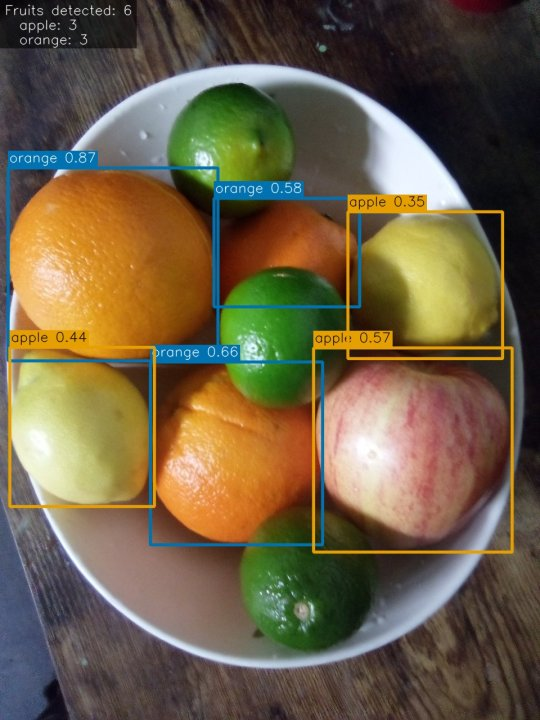
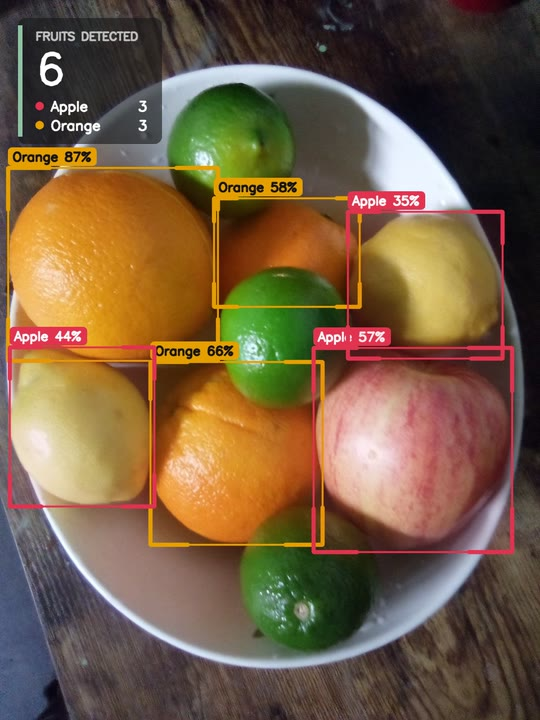
docs: document the videos_to_processing workflow and refresh the demo media
The GIF and image are regenerated from real runs with the new overlay.

Changed region(s): [[0.0, 0.0, 0.9778, 0.7944]]

diff --git a/README.md b/README.md
@@ -25,9 +25,10 @@ fruit, not the number of detections.
 
 ## Features
 
-- **One command** for images, image folders, video files and webcams
+- **Drop-in workflow**: put videos in a folder, run one command, get finished demos
 - **Unique counting**: each fruit keeps one track id for as long as it stays in view
-- **Ready-to-use outputs**: annotated media, `summary.json` and per-frame `frames.csv`
+- **Share-ready video**: steady boxes, a live count, H.264 at the source resolution with audio
+- **Data too**: `summary.json` and per-frame `frames.csv` alongside every video
 - **Built-in evaluation**: counting error against your ground-truth CSV
 - **Bring your own model**: any Ultralytics detector through `--weights`
 
@@ -37,15 +38,23 @@ fruit, not the number of detections.
 git clone https://github.com/felipebridge/fruit-detection-counting.git
 cd fruit-detection-counting
 pip install -e .
-
-fruit-counter -i data/samples/fruit_bowl.jpg
 ```
 
-The YOLO11n weights (~5 MB) download automatically on first run.
+Put your videos in `videos_to_processing/` (created on first run), then run:
+
+```bash
+fruit-counter
+```
+
+Each video is processed on its own and saved to `outputs/<video>_<timestamp>/`. Your
+originals are never modified. The YOLO11n weights (~5 MB) download on first run.
+Install [ffmpeg](https://ffmpeg.org/download.html) for H.264 output with audio, which
+social platforms require.
 
 ## Usage
 
 ```bash
+fruit-counter -i data/samples/fruit_bowl.jpg      # one image
 fruit-counter -i path/to/images/                  # folder of images
 fruit-counter -i orchard.mp4 --device cuda:0      # video, on a GPU
 fruit-counter -i 0 --show                         # webcam, live preview
@@ -78,7 +87,7 @@ print(report.fruit_count, report.results["counts_by_class"])
 ## How It Works
 
 ```text
-frame ─▶ Detect ─▶ Track ─▶ Count ─▶ annotated media + summary.json
+frame ─▶ Detect ─▶ Track ─▶ Count ─▶ Render ─▶ H.264 video + summary.json
 ```
 
 1. **Detect**: YOLO11 with class-agnostic NMS, so one fruit never gets two labels.
@@ -86,6 +95,8 @@ frame ─▶ Detect ─▶ Track ─▶ Count ─▶ annotated media + summary.j
    detections by IoU with the Hungarian algorithm.
 3. **Count**: a track counts once it has been confirmed over several frames. Its label is
    a confidence-weighted vote over its lifetime.
+4. **Render**: only counted fruits are drawn, with smoothed boxes and voted labels, so the
+   overlay stays steady from frame to frame.
 
 ## Contributing
 
